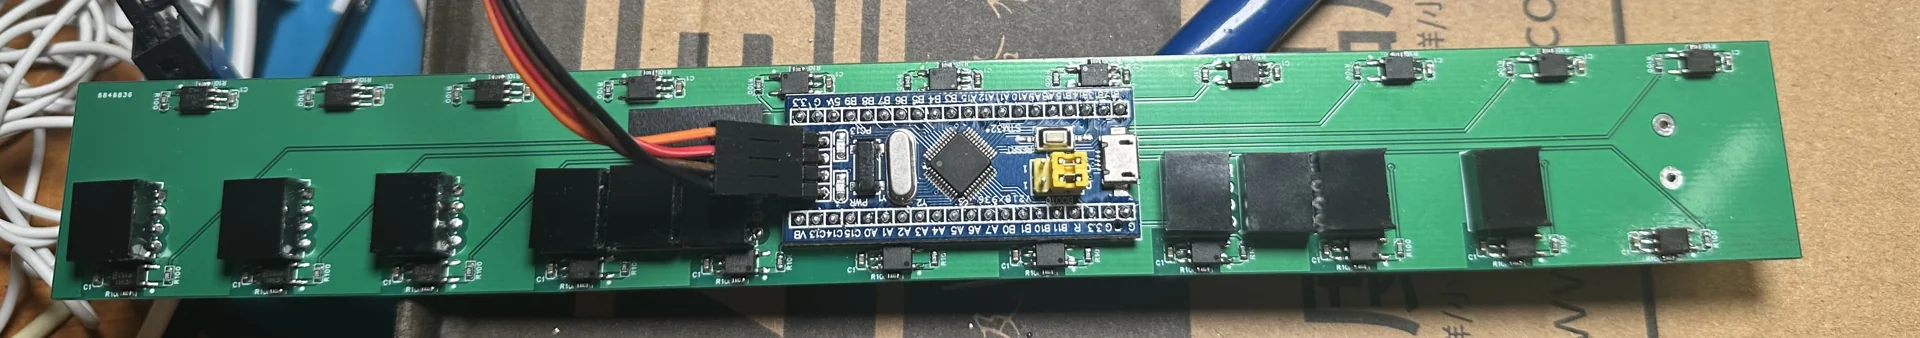
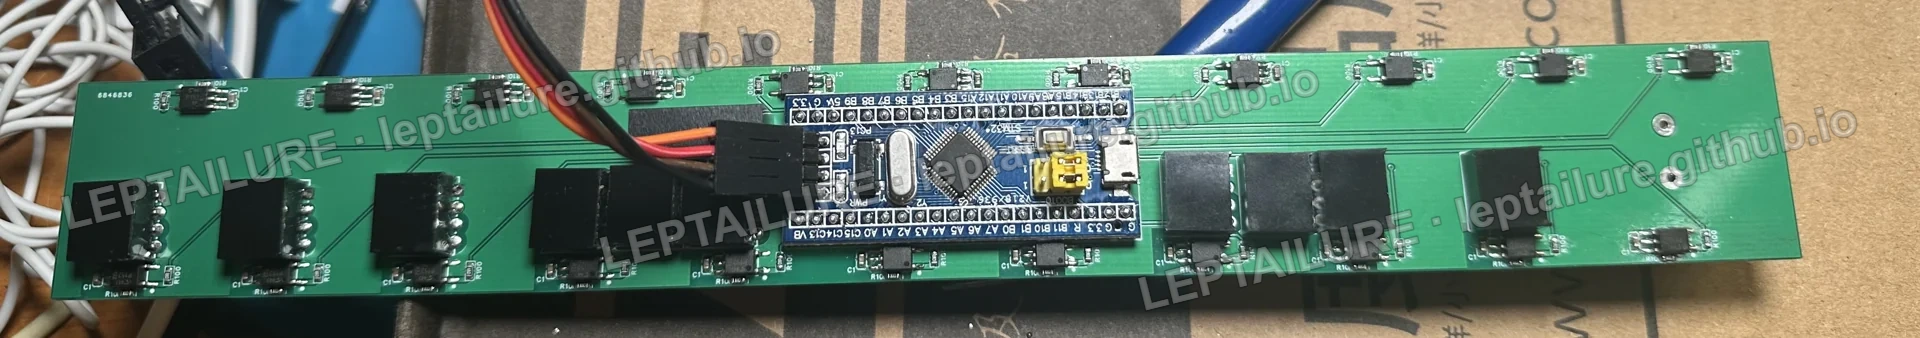
Watermark the two new 25R1 hardware photos

Changed region(s): [[0.5938, 0.3254, 0.9688, 0.9172], [0.3125, 0.2071, 0.6875, 0.7988], [0.0312, 0.0888, 0.4062, 0.6805]]

diff --git a/projects/reluctance-25r1.html b/projects/reluctance-25r1.html
@@ -73,11 +73,11 @@
   <section class="project-section" aria-labelledby="materiel-25r1">
     <h2 id="materiel-25r1">Structure des barres omnibus de la matrice et carte de commande</h2>
     <figure class="hardware-photo">
-      <img src="../assets/reluctance-25r1-assembly.webp?v=original-photo-2" alt="Vue d’ensemble de l’assemblage sur l’établi, avec les barres de cuivre au premier plan" width="1920" height="1080" loading="lazy" decoding="async">
+      <img src="../assets/reluctance-25r1-assembly.webp?v=wm-transparent-2" alt="Vue d’ensemble de l’assemblage sur l’établi, avec les barres de cuivre au premier plan" width="1920" height="1080" loading="lazy" decoding="async">
       <figcaption><strong>Structure des barres omnibus de la matrice.</strong> Vue d’ensemble de l’assemblage sur l’établi.</figcaption>
     </figure>
     <figure class="hardware-photo">
-      <img src="../assets/reluctance-25r1-control-board.webp?v=original-photo-2" alt="Carte de commande allongée avec un module à microcontrôleur bleu au centre" width="1920" height="338" loading="lazy" decoding="async">
+      <img src="../assets/reluctance-25r1-control-board.webp?v=wm-transparent-2" alt="Carte de commande allongée avec un module à microcontrôleur bleu au centre" width="1920" height="338" loading="lazy" decoding="async">
       <figcaption><strong>Carte de commande.</strong> Vue d’ensemble de la carte assemblée, avec le module à microcontrôleur au centre.</figcaption>
     </figure>
   </section>
